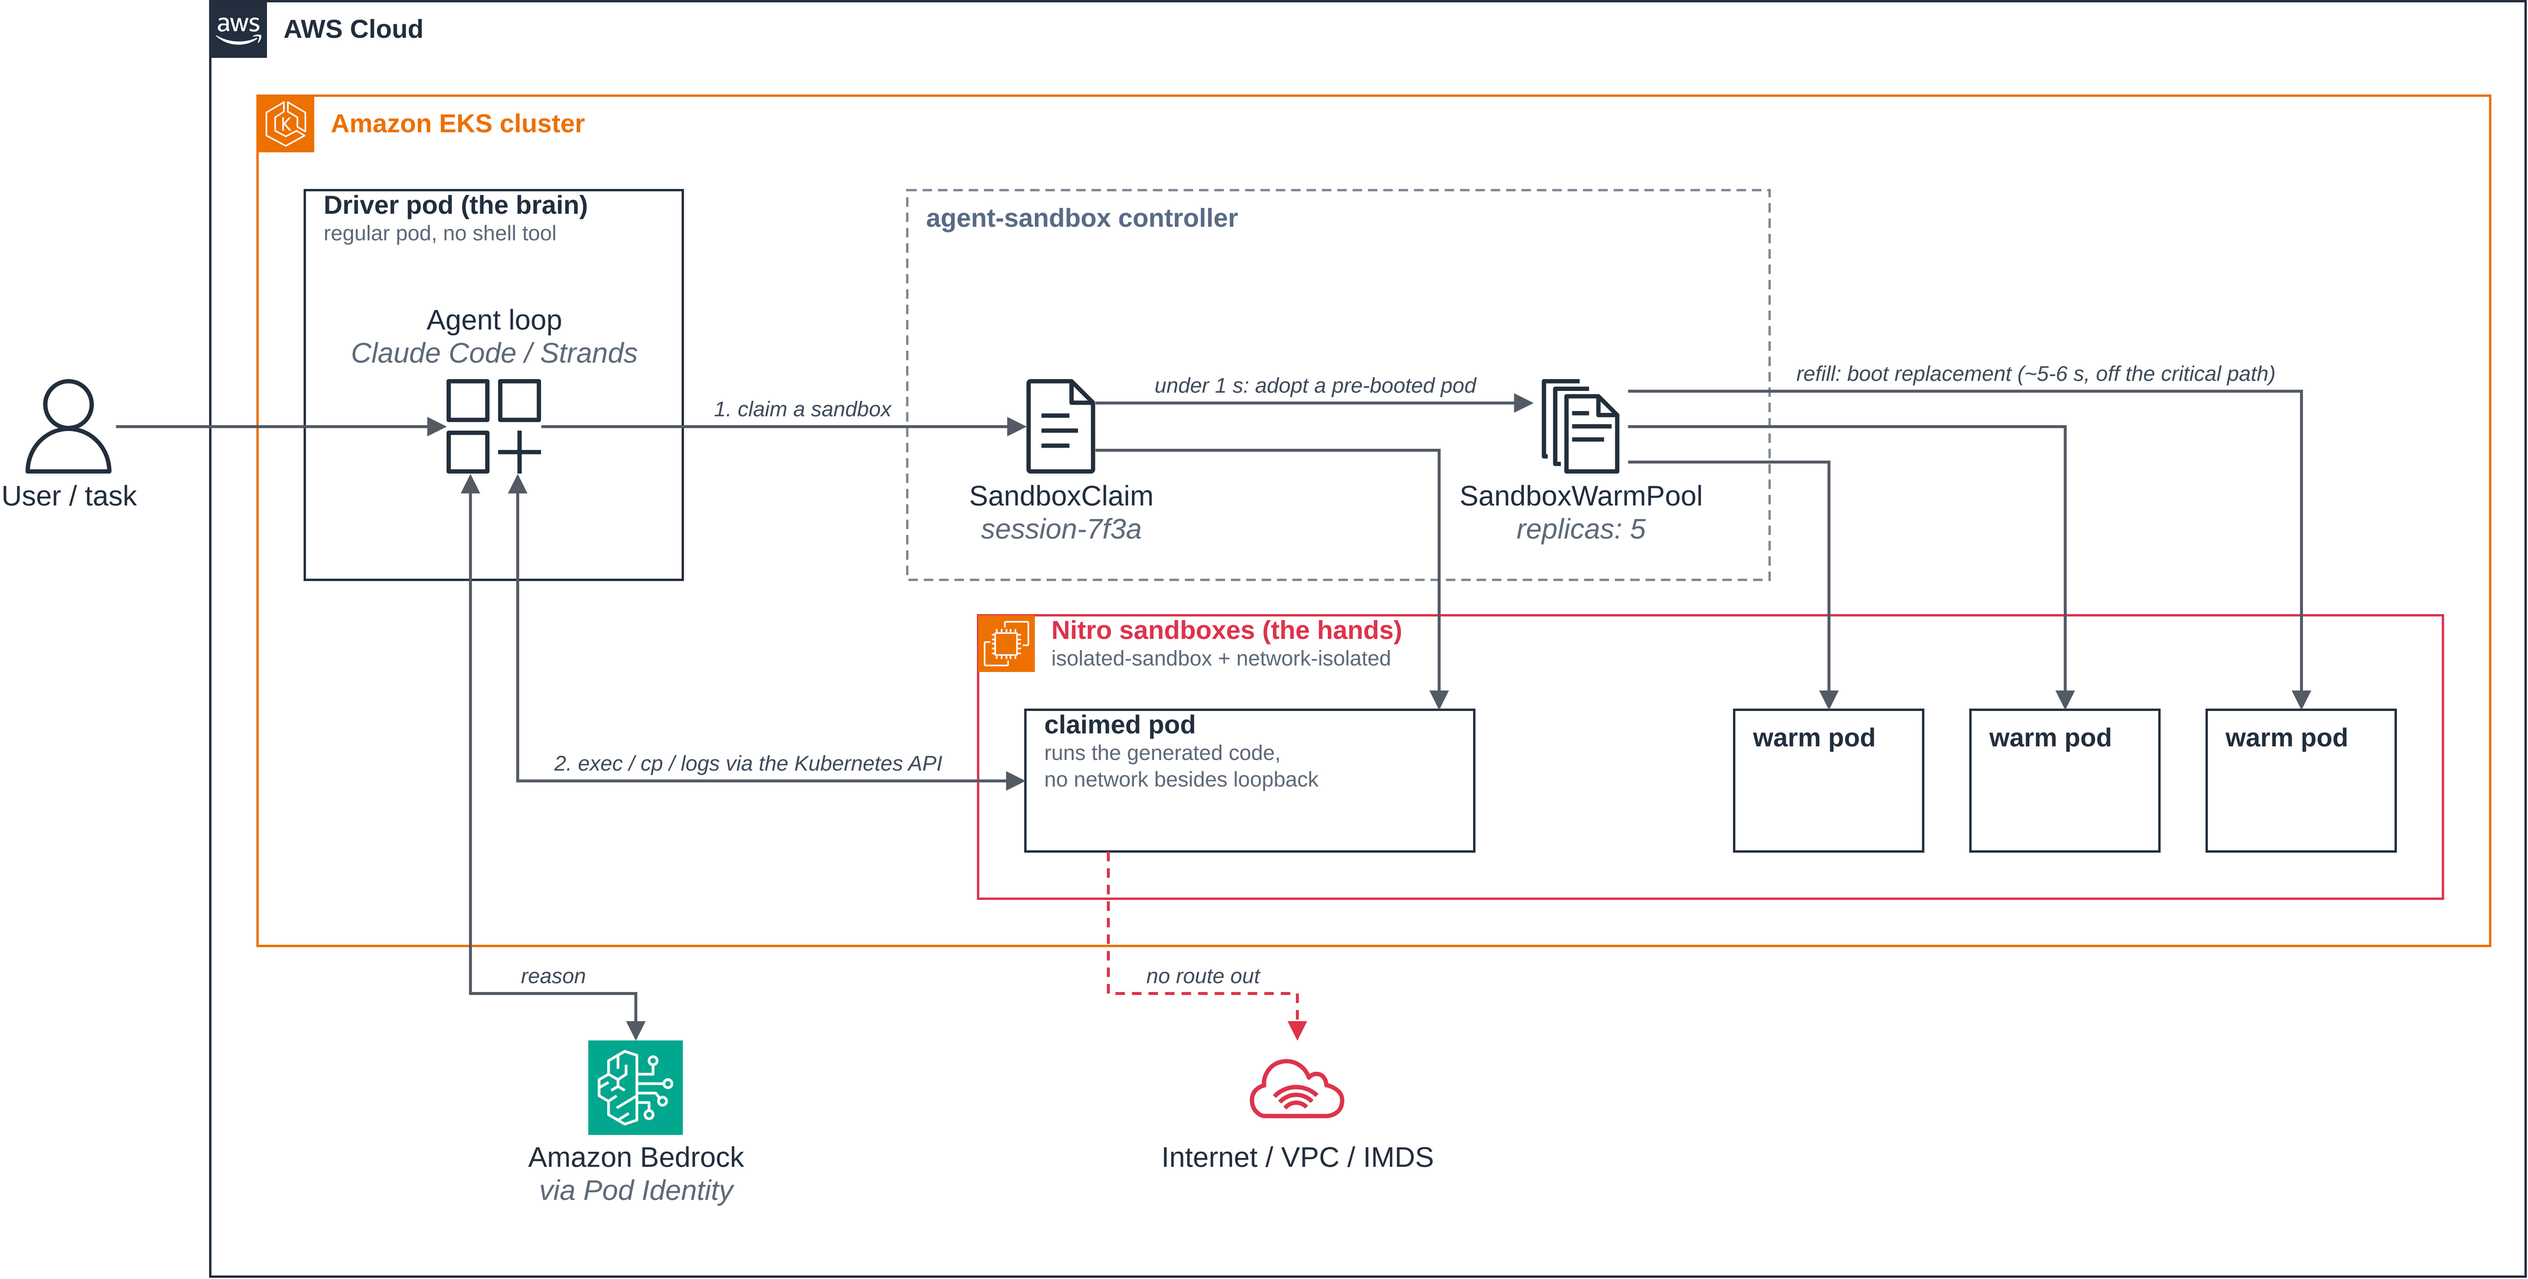
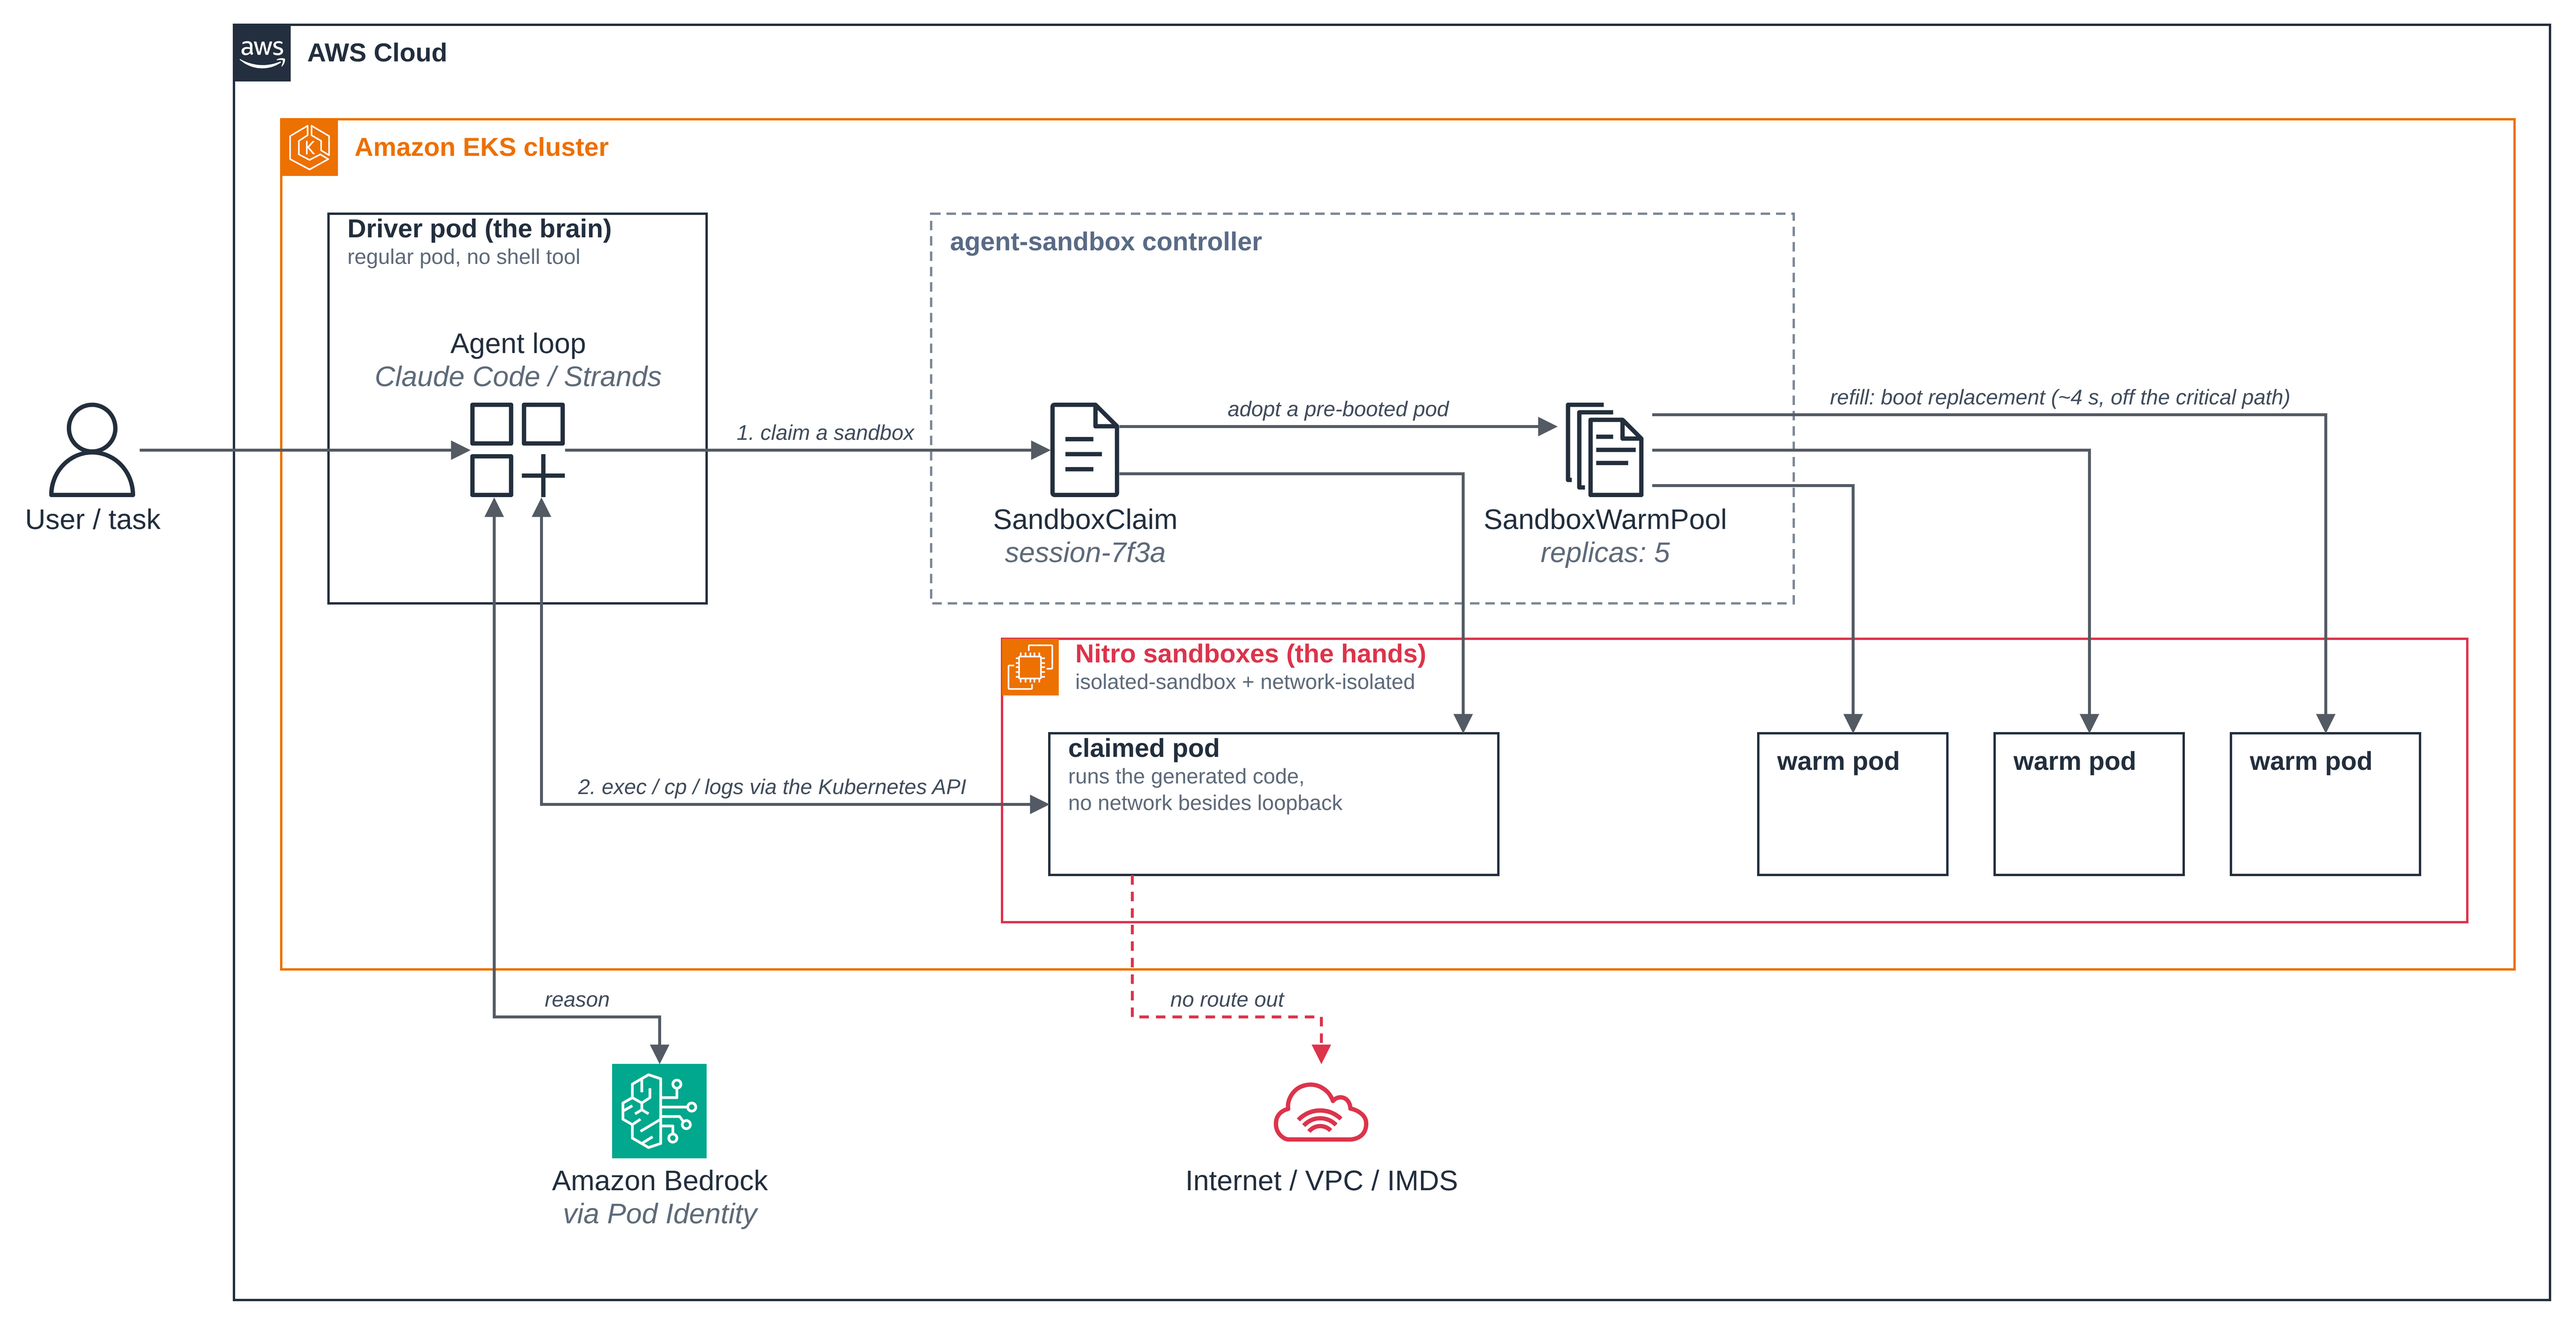
warm-pool: bump agent-sandbox to v1.0.10 (#178)
* warm-pool: bump agent-sandbox to v1.0.10

The page pinned agent-sandbox v1.0.6, two releases behind the one the
other agent-sandbox pages are moving to, and its output blocks came from a
v1.0.6 run.

Step 1, the install command and the clean-up command now name v1.0.10,
and every output block comes from a fresh run of steps 1 to 4 on an EKS
Auto Mode cluster with the v1.0.10 controller (log under tmp/, not
tracked). The manifests are unchanged. The run reused the shared
controller, which `kubectl diff` against the v1.0.10 release manifest
showed would not change.

The run did not show the claim Ready "in under 1 second": the whole
`time` command, two kubectl round trips included, took 1.98 s. Step 3,
Figure 3, its alt text and Figure 4's caption and chart now say what the
run shows instead: the claim adopts a pod that was already booted, and
step 3 adds the launch-type reading that shows it. The step 4 traceback is
shown whole rather than cut with "...".

Closes #177

* warm-pool: measured start-up times, and point at brain-and-hands

The page said a sandboxed pod adds "about 5 to 6 seconds" on a warm node,
Figure 3 said the pool refills in "~5-6 s", and Figure 4 was a chart
labelled illustrative. None of it was measured.

Measured on an EKS Auto Mode cluster with agent-sandbox v1.0.10, on nodes
already up and the image already pulled, timed from the create returning
to `kubectl wait` reporting Ready (logs under tmp/, not tracked):
[…]

diff --git a/examples/getting-started/warm-pool/README.md b/examples/getting-started/warm-pool/README.md
@@ -11,10 +11,11 @@ cd sample-eks-nitro-sandbox/examples/getting-started/warm-pool
 ```
 
 A sandboxed pod does more work at startup than a regular pod: containerd launches the pod's
-Nitro sandbox, which boots with its own kernel, before the containers start. That adds about 5 to 6 seconds
-on a warm node. For an interactive agent, where a user or a model is waiting for a code
-cell to run, that is the difference between a tool that feels instant and one that feels
-slow.
+Nitro sandbox, which boots with its own kernel, before the containers start. On a node that
+is already up, with the image already pulled, a sandboxed pod took 3.2 to 3.7 seconds from
+create to Ready, against 0.8 to 0.9 seconds for an ordinary pod (Figure 4 below). For an
+interactive agent, where a user or a model is waiting for a code cell to run, that is the
+difference between a tool that feels instant and one that feels slow.
 
 [agent-sandbox](https://github.com/kubernetes-sigs/agent-sandbox) is a Kubernetes SIG
 project that adds a `Sandbox` API and a warm-pool controller for agent workloads. Because
@@ -22,10 +23,10 @@ a Nitro Sandbox is a RuntimeClass on a pod template, agent-sandbox works with it
 unchanged.
 
 **Step 1: Install agent-sandbox** with its extensions (`SandboxTemplate`,
-`SandboxWarmPool`, `SandboxClaim`). This folder was built against v1.0.6:
+`SandboxWarmPool`, `SandboxClaim`). This folder was built against v1.0.10:
 
 ```bash
-kubectl apply -f https://github.com/kubernetes-sigs/agent-sandbox/releases/download/v1.0.6/sandbox-with-extensions.yaml
+kubectl apply -f https://github.com/kubernetes-sigs/agent-sandbox/releases/download/v1.0.10/sandbox-with-extensions.yaml
 kubectl -n agent-sandbox-system rollout status deploy/agent-sandbox-controller
 ```
 
@@ -69,7 +70,7 @@ kubectl get sandboxwarmpool nitro-agent-pool
 
 ```text
 NAME               READY   DESIRED   AGE
-nitro-agent-pool   5       5         41s
+nitro-agent-pool   5       5         11s
 ```
 
 **Step 3: Claim one.** A [`SandboxClaim`](claim.yaml) is what your
@@ -94,12 +95,33 @@ time ( kubectl apply -f claim.yaml \
 sandboxclaim.extensions.agents.x-k8s.io/session-7f3a created
 sandboxclaim.extensions.agents.x-k8s.io/session-7f3a condition met
 
-real    0m1.928s
+real	0m1.978s
+user	0m0.955s
+sys	0m0.406s
 ```
 
-The claim adopts a pod that was already running, so it is Ready in under 1 second. The
-`time` above is a little longer because it includes kubectl's own round trips. The pool
-boots a replacement in the background and is back to five.
+The claim adopts a pod that was already running, so nothing boots on the claim path. The
+`time` above covers both kubectl commands. Timed from the moment the `apply` returns, three
+claims were each Ready in 0.8 seconds, about what an ordinary pod takes to start. The
+`launch-type` label shows the adopted pod came from the pool, as every pod here did:
+
+```bash
+kubectl get sandbox -o custom-columns='NAME:.metadata.name,LAUNCH-TYPE:.metadata.labels.agents\.x-k8s\.io/launch-type'
+```
+
+```text
+NAME                     LAUNCH-TYPE
+nitro-agent-pool-4pwxg   warm
+nitro-agent-pool-6j26d   warm
+nitro-agent-pool-nlbv2   warm
+nitro-agent-pool-qxf9f   warm
+nitro-agent-pool-t8fzv   warm
+nitro-agent-pool-xc4x6   warm
+```
+
+Six sandboxes for a pool of five: the claimed one, and the replacement the pool boots in the
+background to get back to five. After each of those three claims the pool was back to five
+ready in about 4 seconds, which is a cold sandbox boot, off the path the claim waits on.
 
 **Step 4: Use it.** Your application talks to the claimed sandbox as it would to any pod:
 `kubectl exec` to run code, `kubectl cp` to move files, `kubectl logs` to read output.
@@ -116,11 +138,15 @@ kubectl get sandboxwarmpool nitro-agent-pool
 ```text
 45
 Traceback (most recent call last):
-  ...
+  File "<string>", line 1, in <module>
+  File "/usr/local/lib/python3.12/socket.py", line 865, in create_connection
+    raise exceptions[0]
+  File "/usr/local/lib/python3.12/socket.py", line 850, in create_connection
+    sock.connect(sa)
 OSError: [Errno 101] Network is unreachable
 command terminated with exit code 1
 NAME               READY   DESIRED   AGE
-nitro-agent-pool   5       5         79s
+nitro-agent-pool   5       5         19s
 ```
 
 Code runs, files move, and the sandbox has no route out. Delete the claim and its pod is
@@ -141,28 +167,35 @@ commands, and the component that can run commands has no network besides loopbac
 between them is the Kubernetes API, which keeps working under network isolation because
 exec uses the sandbox's internal control channel, as step 4 showed.
 
+The [brain and hands](../../agent-sandbox/brain-and-hands/README.md) blueprint builds this
+pattern with one change of wire. Its hands run sandboxd, the agent-sandbox runtime daemon,
+and the brain reaches it with the upstream agent-sandbox MCP server, so commands, files and
+output stay off the Kubernetes API, which is what you want once many agents run at once.
+The price is that the hands need a pod network to be reached on. So instead of booting
+network-isolated, they carry a network policy that admits only pods labelled `app=brain` (and
+the pod's own node, which Kubernetes always allows), on sandboxd's two ports, and lets them
+open no connection on the pod network. Pick the
+Kubernetes API wire shown here when exec traffic is light, and sandboxd when it is not.
+
 *Figure 3: Warm pool with the brain and hands separated. The driver pod reasons and talks
 to Bedrock; the claimed sandbox runs code with no network besides loopback; the Kubernetes API is
 the only wire between them.*
 
-![A driver pod, the brain, reasons by calling Amazon Bedrock and claims a sandbox from the agent-sandbox controller's SandboxWarmPool; the claim adopts an already-booted warm pod in under 1 second and the pool refills itself in the background; the claimed pod, one of the Nitro sandboxes, the hands, runs the generated code with no network besides loopback while the driver pod talks to it only through the Kubernetes API.](images/figure-3-warm-pool.png)
+![A driver pod, the brain, reasons by calling Amazon Bedrock and claims a sandbox from the agent-sandbox controller's SandboxWarmPool; the claim adopts an already-booted warm pod and the pool refills itself in the background; the claimed pod, one of the Nitro sandboxes, the hands, runs the generated code with no network besides loopback while the driver pod talks to it only through the Kubernetes API.](images/figure-3-warm-pool.png)
 
-*Figure 4: Time to first command. A cold start pays for sandbox creation and image
-pull; a warm-pool claim adopts a sandbox that is already running, in under 1 second.*
+*Figure 4: Time to Ready. A cold start boots a sandbox; a warm-pool claim adopts one that
+is already running, so nothing boots. Measured three times each on a node that was already
+up, with the image already pulled, timed from the moment the create returned until
+`kubectl wait` reported Ready, so each figure includes one kubectl round trip. A cold start
+on a new node, or with an image to pull, takes longer; a claim served by a warm pod waits
+on neither.*
 
-```mermaid
-gantt
-    title Time to first command (illustrative, warm node)
-    dateFormat  s
-    axisFormat  %S s
-    section Cold start
-    create sandbox, boot its kernel :a1, 0, 3s
-    pull image, start containers :a2, after a1, 3s
-    first command runs           :milestone, m1, after a2, 0s
-    section Warm pool claim
-    adopt pre-booted pod, under 1 s :b1, 0, 1s
-    first command runs           :milestone, m2, after b1, 0s
-```
+| Path to a ready pod | Create to Ready |
+|---|---|
+| Ordinary pod, cold start | 0.8 to 0.9 s |
+| Sandboxed pod, cold start | 3.2 to 3.7 s |
+| Sandboxed pod, warm-pool claim | 0.8 s |
+| The pool booting the replacement, after a claim | about 4 s, off the claim's path |
 
 **Sizing.** Each sandbox reserves its full memory request up front, so bin-packing is by
 reservation, not by usage: size requests honestly and expect fewer, larger pods per node
@@ -176,7 +209,7 @@ agent-sandbox, including its CRDs and every Sandbox resource in the cluster:
 
 ```bash
 kubectl delete -f warm-pool.yaml --ignore-not-found
-kubectl delete -f https://github.com/kubernetes-sigs/agent-sandbox/releases/download/v1.0.6/sandbox-with-extensions.yaml
+kubectl delete -f https://github.com/kubernetes-sigs/agent-sandbox/releases/download/v1.0.10/sandbox-with-extensions.yaml
 rm -f /tmp/hands.py
 ```
 
